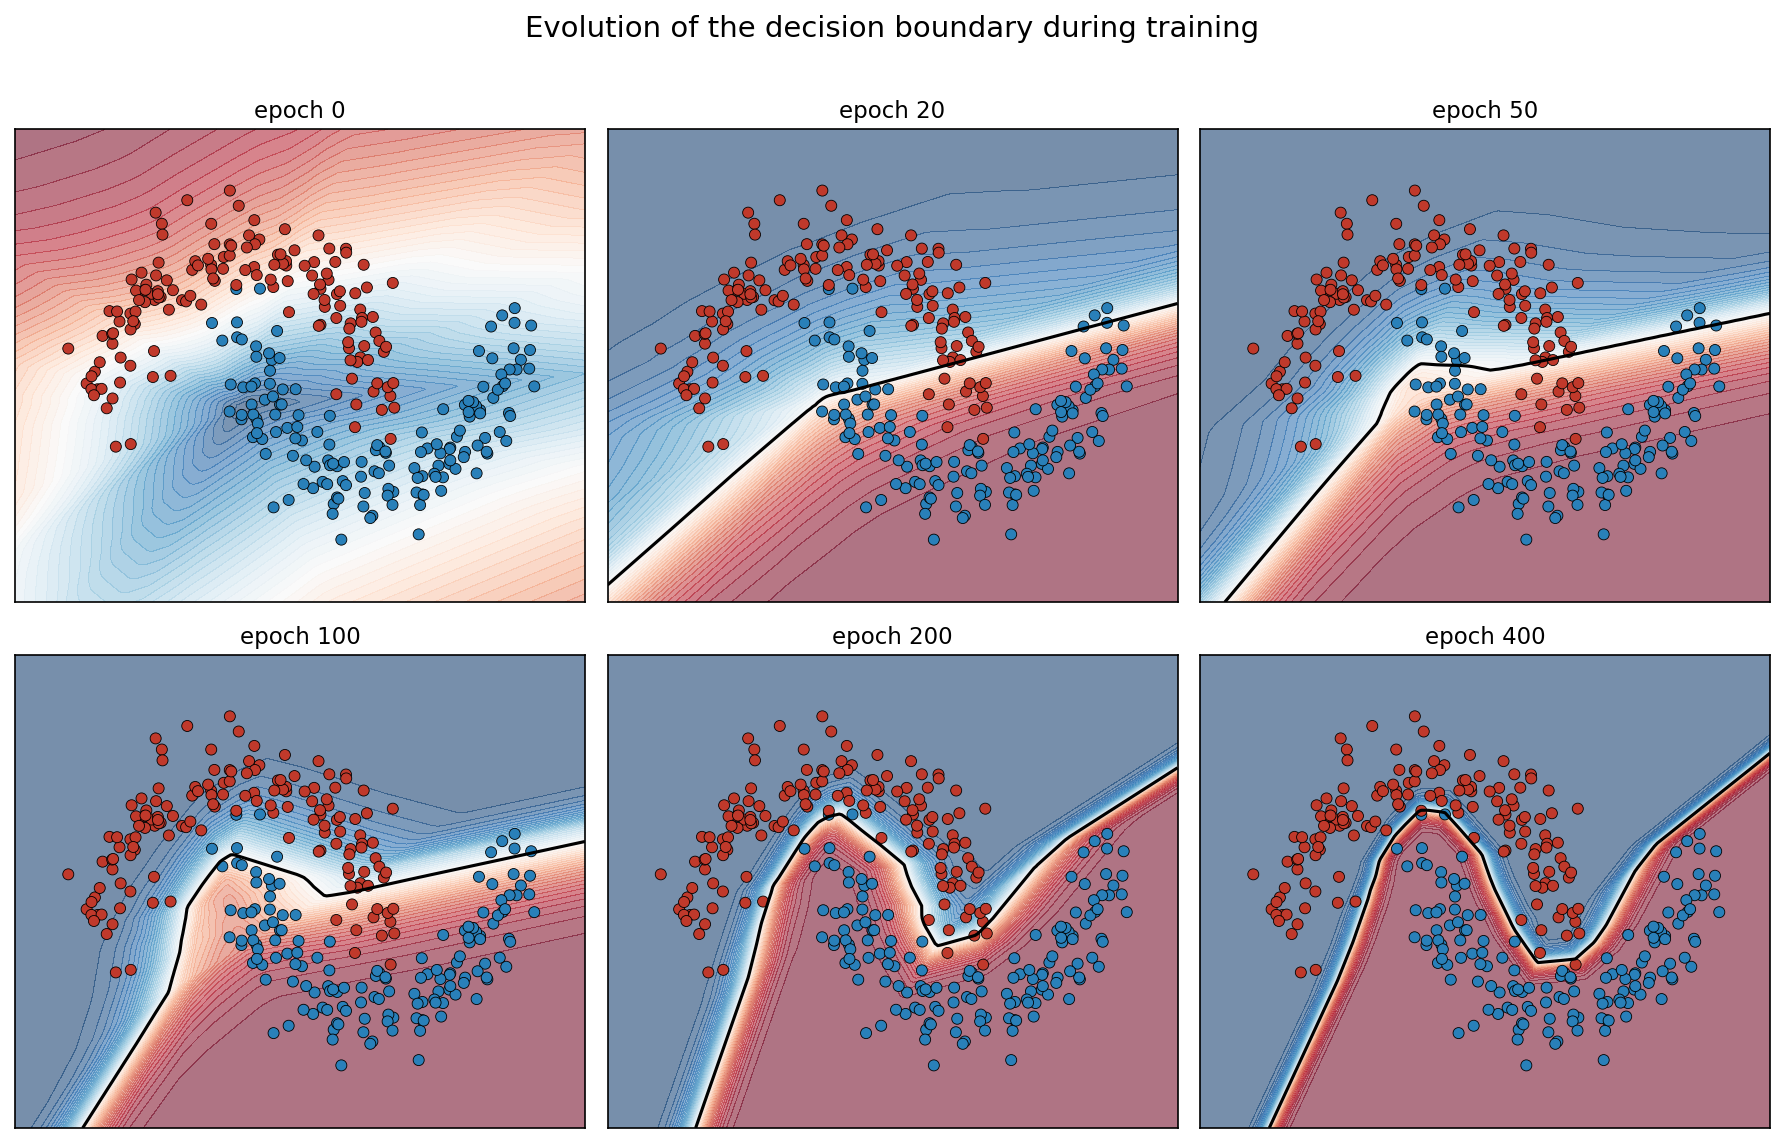
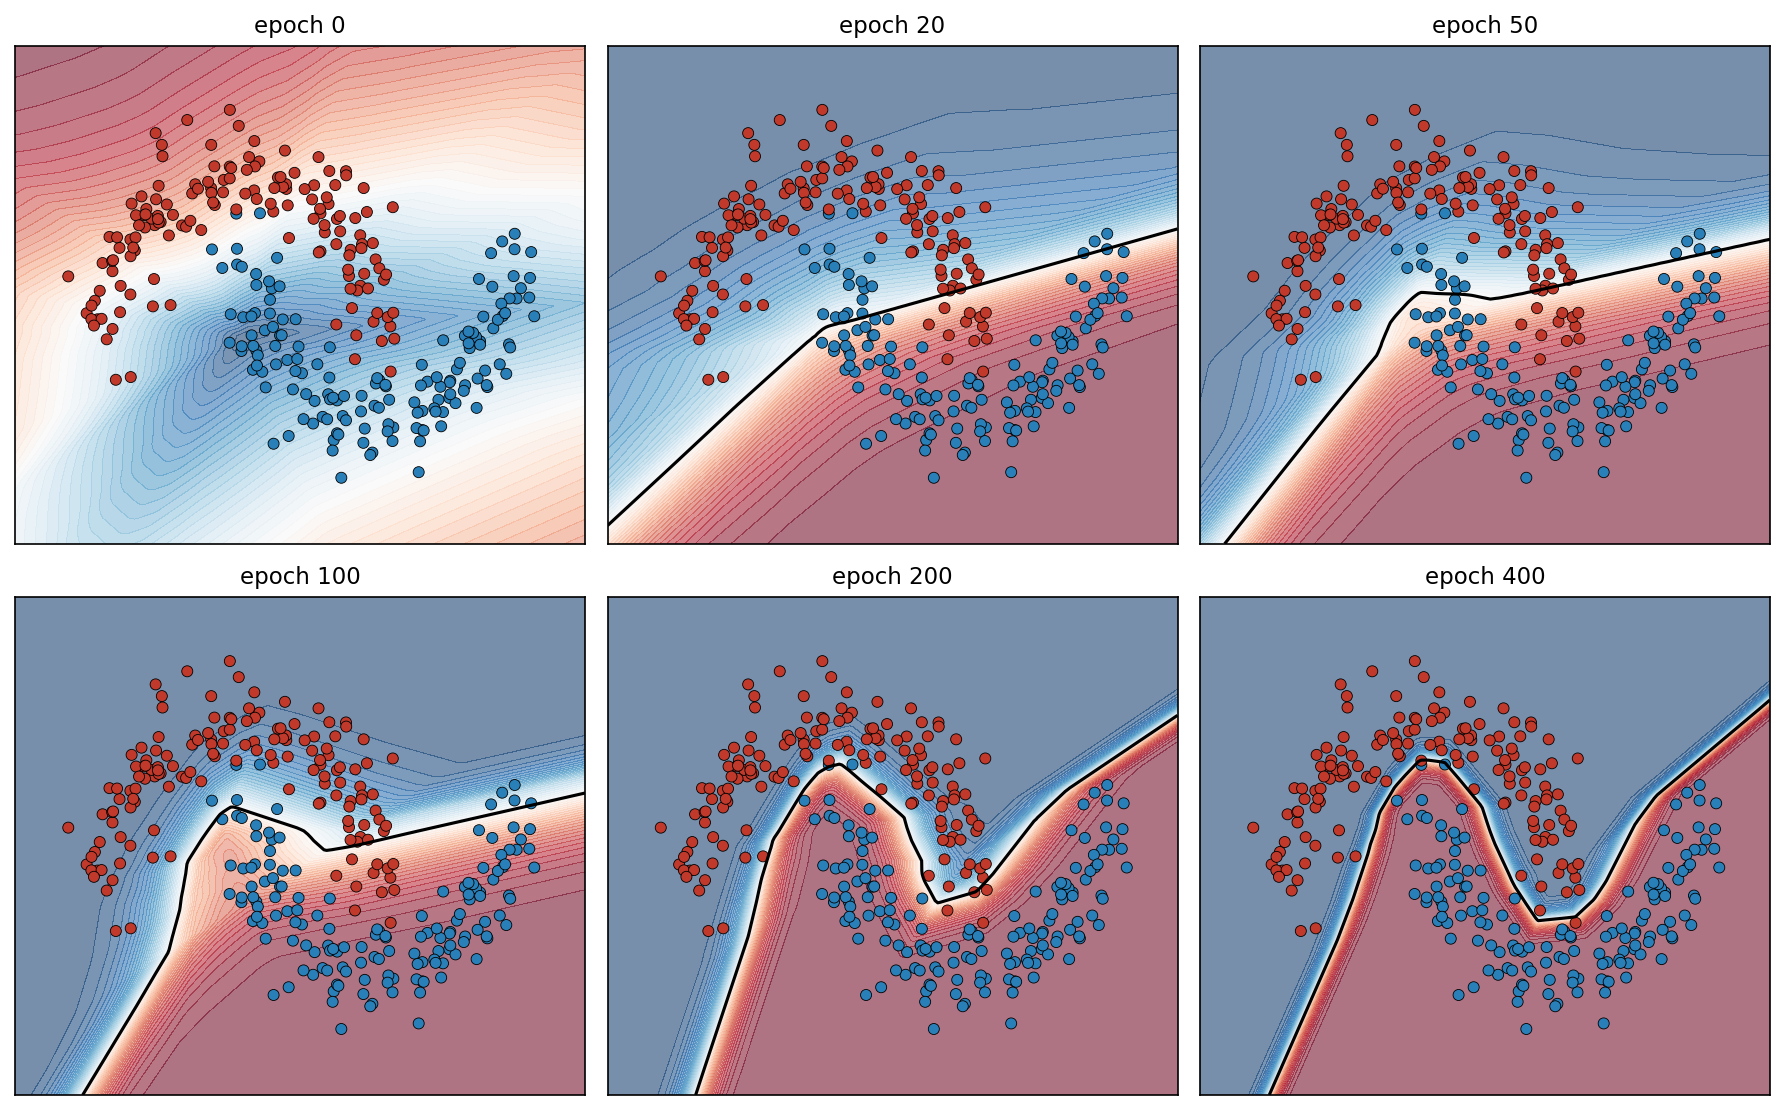
Modifications

diff --git a/main.py b/main.py
@@ -135,7 +135,7 @@ def main():
         model.W2, model.b2 = W2, b2
         model.W3, model.b3 = W3, b3
         plot_decision_boundary(model, X, y, ax, title=f"epoch {ep}")
-    fig.suptitle("Evolution of the decision boundary during training", fontsize=14, y=1.01)
+    # fig.suptitle("Evolution of the decision boundary during training", fontsize=14, y=1.01)
     fig.tight_layout()
     fig.savefig("decision_boundaries.png", dpi=150, bbox_inches="tight")
     print("Saved decision_boundaries.png")

diff --git a/README.md b/README.md
@@ -1,6 +1,6 @@
 # Backpropagation
 
-A small multi-layer perceptron (MLP) implemented from scratch with pure NumPy. Forward pass, backpropagation (chain rule) and weight updates are written by hand. Includes gradient checking and a visualisation of how the decision boundary evolves during training.
+A small multi-layer perceptron (MLP) implemented from scratch with NumPy. Forward pass, backpropagation (gradient of the loss function and the chain rule) and weight updates. The picture below shows visualisation of how the decision boundary evolves during training.
 
 ![Decision boundary evolution](decision_boundaries.png)
 
